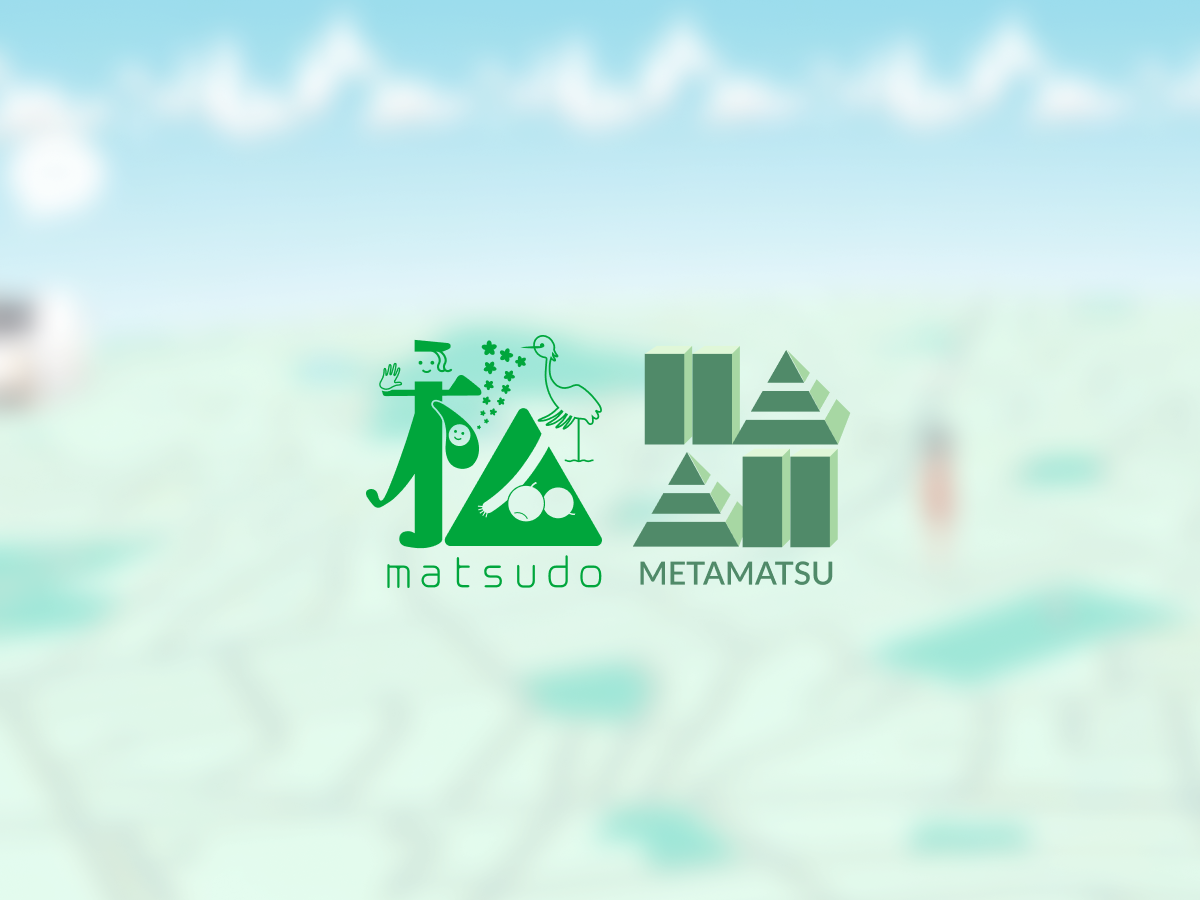
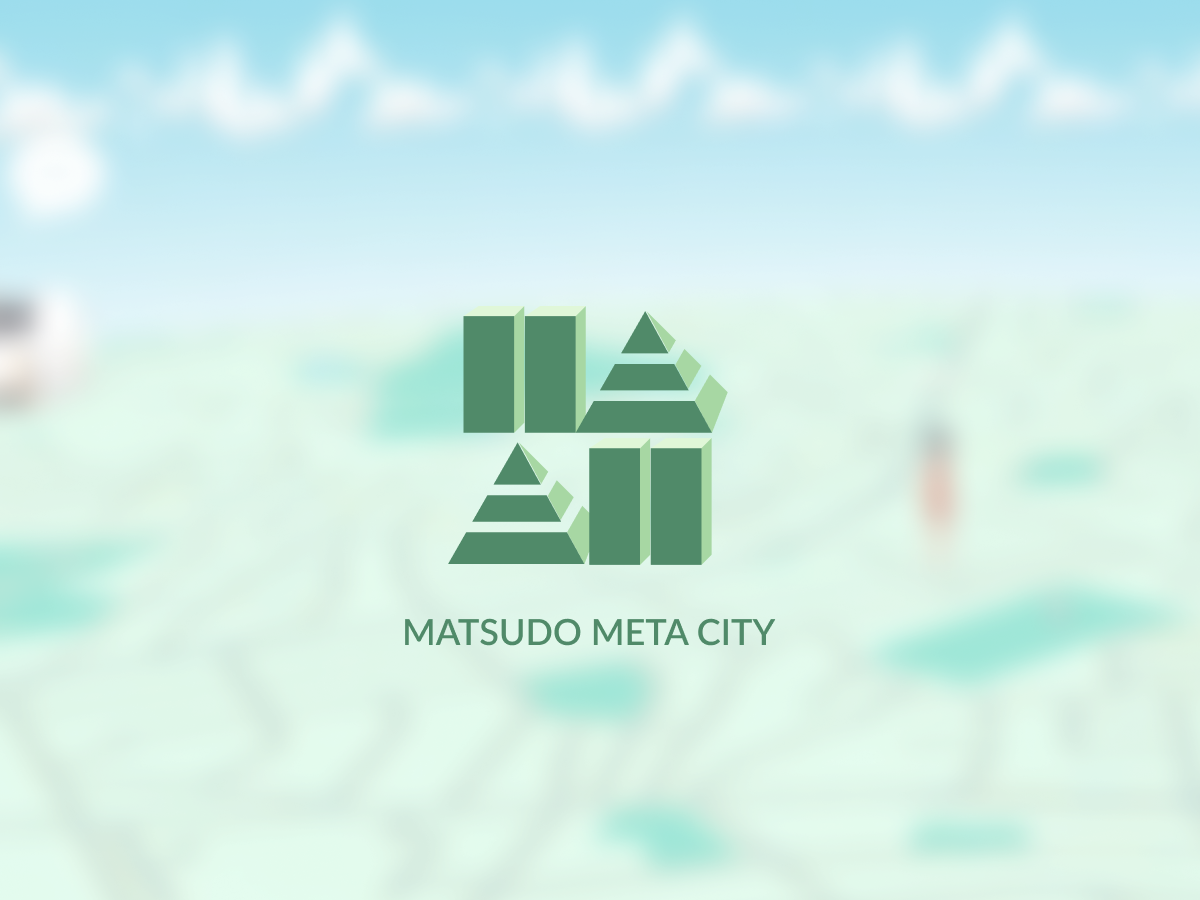
Update Featured Works project subtitles and Matsudo MetaCity thumbnail

Changed region(s): [[0.3083, 0.3422, 0.7092, 0.6533], [0.3392, 0.6844, 0.6475, 0.7156]]

diff --git a/src/components/sections/featured-works.tsx b/src/components/sections/featured-works.tsx
@@ -21,7 +21,7 @@ const PROJECTS: Record<string, ProjectItem & { worktype: WorkType }> = {
     projectName: "COMAI",
     year: "2023-2025",
     title: "How can AI feel thoughtful—not merely capable?",
-    subtitle: "Future Automotive AI Experiences for Honda: Strategy · Embodied AI · Two-stage PoC",
+    subtitle: "Future automotive AI experiences, Strategy · Embodied AI · Two-stage PoC",
     link: "https://fushu.framer.website/auto",
     worktype: "Featured",
   },
@@ -31,7 +31,7 @@ const PROJECTS: Record<string, ProjectItem & { worktype: WorkType }> = {
     projectName: "SerenChina",
     year: "2026",
     title: "Can AI help us discover unfamiliar cultures through emotional resonance?",
-    subtitle: "AI-powered travel discovery product · Designed and built independently",
+    subtitle: "AI-powered travel discovery product, designed and built independently",
     link: "https://fushu.framer.website/sere",
     worktype: "Featured",
   },
@@ -42,7 +42,7 @@ const PROJECTS: Record<string, ProjectItem & { worktype: WorkType }> = {
     year: "2025",
     title: "Can AI hear what words leave unsaid?",
     subtitle:
-      "Emotion AI venture · SER-powered companion prototype, user testing and venture strategy",
+      "Emotion AI venture, SER-powered AI prototype, venture strategy",
     link: "https://fushu.framer.website/semo",
     worktype: "Featured",
   },
@@ -52,7 +52,7 @@ const PROJECTS: Record<string, ProjectItem & { worktype: WorkType }> = {
     projectName: "Elgana",
     year: "2023",
     title: "How can a workplace tool become a digital hub for community and collaboration?",
-    subtitle: "Product repositioning and renewal · Research, strategy, UX/UI and brand experience",
+    subtitle: "Product repositioning and renewal, research, strategy, UX/UI and brand",
     link: "https://fushu.framer.website/elgana",
     worktype: "Featured",
   },
@@ -62,18 +62,18 @@ const PROJECTS: Record<string, ProjectItem & { worktype: WorkType }> = {
     projectName: "Chimon",
     year: "2025",
     title: "How can traditional Chinese craftsmanship find new relevance in a global market?",
-    subtitle: "Venture brand and live website · Service concept, identity and Framer buildn",
+    subtitle: "Venture brand and live website, service concept, identity",
     link: "https://chimonart.framer.website/",
     worktype: "Related",
   },
   metamatsu: {
     id: "metamatsu",
     src: "/thumbnails/metamatsu.png",
-    projectName: "Matsudo MetaCity",
+    projectName: "Masudo MetaCity",
     year: "2025",
     title:
       "How can a city turn disaster preparedness and cultural heritage into an explorable virtual world?",
-    subtitle: "Public-sector metaverse · Spatial UX, Unreal Engine and geospatial mapping",
+    subtitle: "Public-sector metaverse, unreal engine and geospatial mapping",
     link: "https://fushu.framer.website/metamatsu",
     worktype: "Related",
   },
@@ -85,7 +85,7 @@ const PROJECTS: Record<string, ProjectItem & { worktype: WorkType }> = {
     projectName: "Metabond",
     year: "2021-2022",
     title: "Can the subtle presence of others help us focus without demanding attention?",
-    subtitle: "Master's thesis · Wearable sensing, spatial audio and app prototype",
+    subtitle: "Master's thesis · wearable sensing, app prototype",
     link: "https://fushu.framer.website/metabond",
     worktype: "Related",
   },
@@ -97,7 +97,7 @@ const PROJECTS: Record<string, ProjectItem & { worktype: WorkType }> = {
     projectName: "IVERSE",
     year: "2022-2023",
     title: "Can generative AI help people explore identity and connect beyond social labels?",
-    subtitle: "0→1 AI social platform · Product concept, UX/UI, motion and brand",
+    subtitle: "0→1 AI social platform, UX/UI, Motion and Brand",
     link: "https://fushu.framer.website/iverse",
     worktype: "Related",
   },
